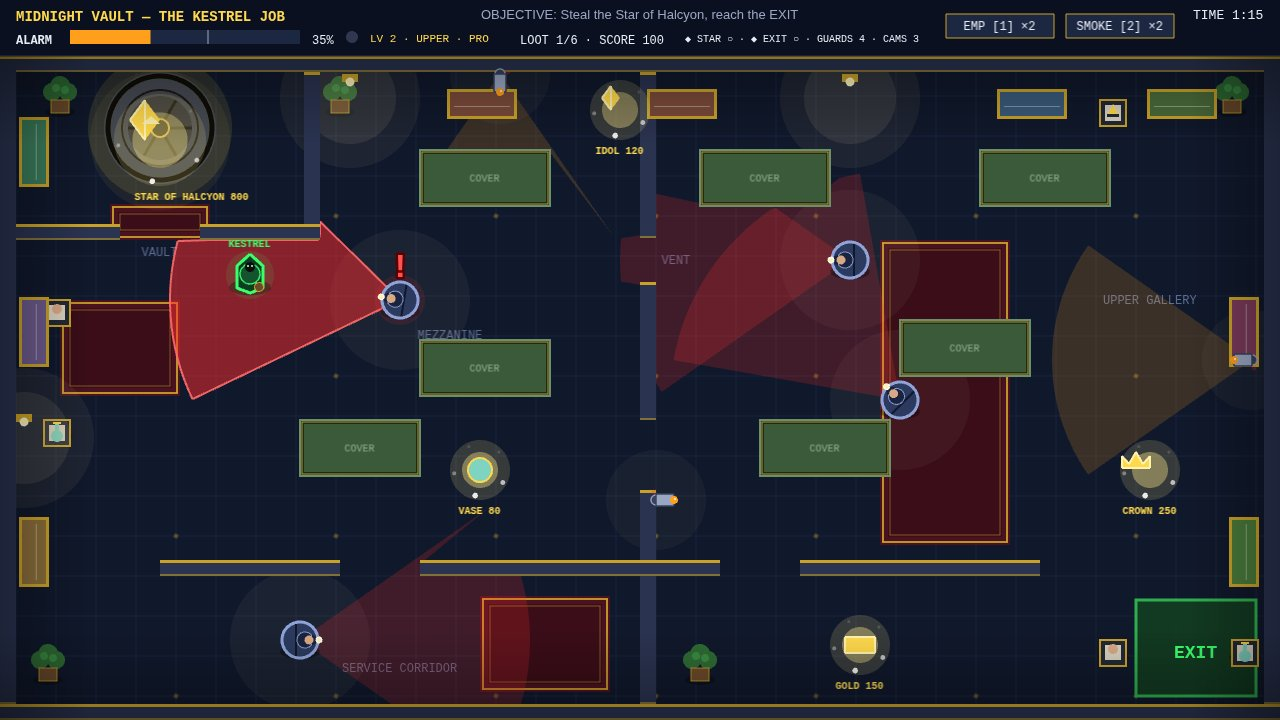
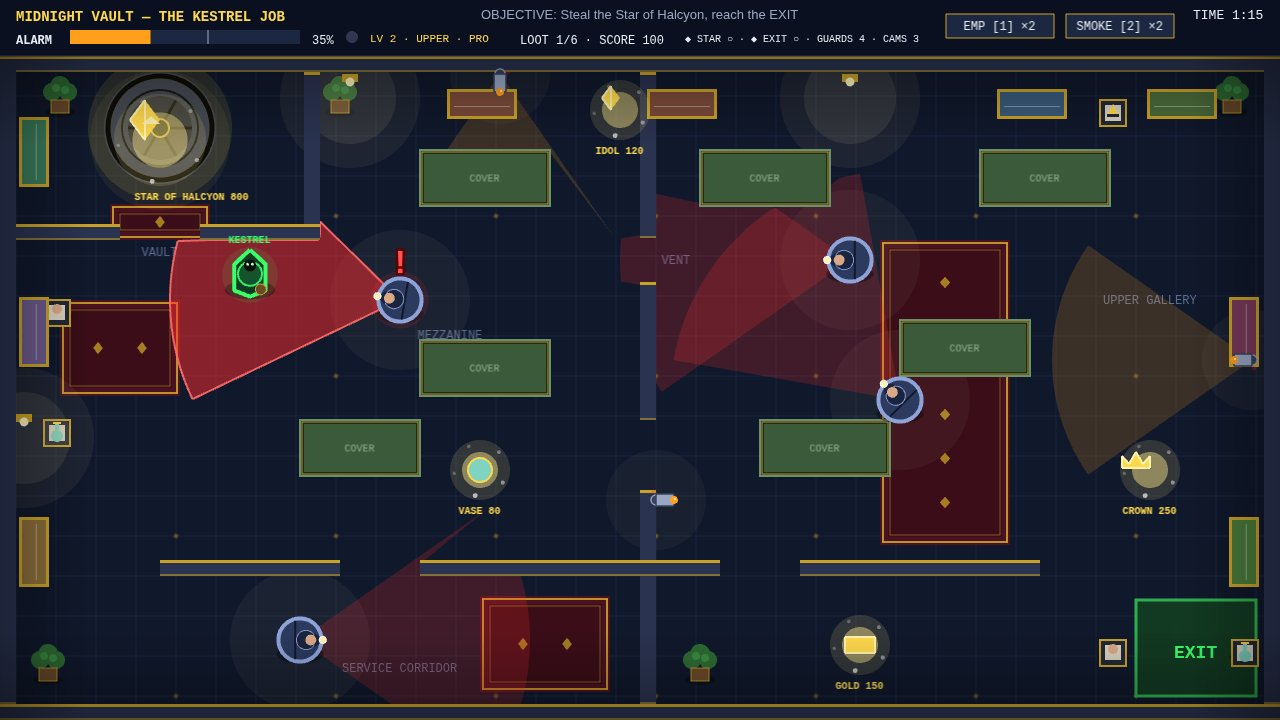
Midnight Vault: bolder figures, woven carpet motif, clearer smoke, SPOTTED! fix
- Figures drawn 1.2x larger with thicker outlines (collision radii
  unchanged: vent, patrol and vision untouched); KESTREL tag and guard
  '!' raised to clear the bigger figures
- Carpet runners get a woven centre motif of small gold diamonds
- Cover pose smoke moved 25 px down-left so its top edge clears the
  vault's south wall; guard 1 still has eyes on Kestrel
- SPOTTED! banner no longer touches the plant (plant moved 80 px left)
- Screenshots re-shot (1280x720, <=256 KiB) and visually compared with v7

Tests: test-play 20/20, test-level2 9/9, playthrough CAMPAIGN COMPLETED
(L1 peak 66, L2 peak 27, final 1966 incl. L2 crown), main.ts
deterministic 2x, kit check 4 passed, serve.ts 200.

diff --git a/game/src/scene.js b/game/src/scene.js
@@ -172,6 +172,21 @@ export class HeistScene extends Phaser.Scene {
       carpetG.strokeRect(c.x + 3, c.y + 3, c.w - 6, c.h - 6);
       carpetG.lineStyle(1, COLORS.wallTrim, 0.5);
       carpetG.strokeRect(c.x + 10, c.y + 10, c.w - 20, c.h - 20);
+      // v8: woven centre motif — small gold diamonds down the runner's
+      // spine, so the carpet reads as textile instead of a solid block.
+      const horiz = c.w >= c.h;
+      const axisLen = horiz ? c.w : c.h;
+      const count = Math.floor((axisLen - 24) / 44);
+      for (let i = 0; i < count; i += 1) {
+        const t = (axisLen - (count - 1) * 44) / 2 + i * 44;
+        const cx = horiz ? c.x + t : c.x + c.w / 2;
+        const cy = horiz ? c.y + c.h / 2 : c.y + t;
+        carpetG.fillStyle(COLORS.wallTrim, 0.75);
+        carpetG.fillPoints([
+          { x: cx, y: cy - 6 }, { x: cx + 5, y: cy },
+          { x: cx, y: cy + 6 }, { x: cx - 5, y: cy },
+        ], true);
+      }
     }
     this.levelObjs.push(carpetG);
 
@@ -410,7 +425,8 @@ export class HeistScene extends Phaser.Scene {
   buildActorObjs() {
     this.guardObjs = this.guards.map((g) => {
       // v7: bigger, stroked "!" — the alert must read in the contact sheet.
-      const alert = this.add.text(g.x, g.y - 34, '!', {
+      // v8: raised 4 px — the 1.2x guard figure grew into its old spot.
+      const alert = this.add.text(g.x, g.y - 38, '!', {
         fontFamily: FONT, fontSize: '32px', color: '#ff5252', fontStyle: 'bold',
         stroke: '#5a0000', strokeThickness: 5,
       }).setOrigin(0.5).setDepth(5).setVisible(false);
@@ -483,56 +499,64 @@ export class HeistScene extends Phaser.Scene {
   drawThief(x, y, facing) {
     const g = this.thiefG;
     g.clear();
+    // v8: the figure is drawn 1.2x larger than its collision circle so
+    // Kestrel reads in the 768 px contact sheet; THIEF_RADIUS (19) still
+    // rules movement, the vent slit and loot pickup — only pixels change.
     const r = THIEF_RADIUS;
+    const S = 1.2;
     g.fillStyle(0x000000, 0.35);
-    g.fillEllipse(x, y + r * 0.65, r * 2.2, r * 0.85);
+    g.fillEllipse(x, y + r * 0.65 * S, r * 2.2 * S, r * 0.85 * S);
     g.fillStyle(COLORS.thief, 0.1);
-    g.fillCircle(x, y, r + 5);
-    const p = (lx, ly) => HeistScene.rotPoint(x, y, lx, ly, facing);
+    g.fillCircle(x, y, r * S + 5);
+    const p = (lx, ly) => HeistScene.rotPoint(x, y, lx * S, ly * S, facing);
     // Cloak: a hooded teardrop pointing where Kestrel faces.
     const cloak = [[21, 0], [9, -13], [-13, -13], [-18, 0], [-13, 13], [9, 13]]
       .map(([lx, ly]) => p(lx, ly));
     g.fillStyle(COLORS.thiefCloak, 1);
     g.fillPoints(cloak, true);
-    g.lineStyle(3, COLORS.thief, 1);
+    g.lineStyle(4, COLORS.thief, 1);
     g.strokePoints(cloak, true);
     // Hood + shadowed face + eyes.
     const hood = p(1, 0);
     g.fillStyle(COLORS.thiefHood, 1);
-    g.fillCircle(hood.x, hood.y, 10);
-    g.lineStyle(1.5, COLORS.thief, 0.9);
-    g.strokeCircle(hood.x, hood.y, 10);
+    g.fillCircle(hood.x, hood.y, 10 * S);
+    g.lineStyle(2, COLORS.thief, 0.9);
+    g.strokeCircle(hood.x, hood.y, 10 * S);
     const face = p(8, 0);
     g.fillStyle(0x0a0f0a, 1);
-    g.fillCircle(face.x, face.y, 5);
+    g.fillCircle(face.x, face.y, 5 * S);
     for (const ey of [-2, 2]) {
       const e = p(9, ey);
       g.fillStyle(0xbfffd0, 1);
-      g.fillCircle(e.x, e.y, 1.2);
+      g.fillCircle(e.x, e.y, 1.5);
     }
     // Loot bag slung at the back.
     const bag = p(-12, 9);
     g.fillStyle(COLORS.plantPot, 1);
-    g.fillCircle(bag.x, bag.y, 4.5);
+    g.fillCircle(bag.x, bag.y, 4.5 * S);
     g.lineStyle(1, COLORS.wallTrim, 1);
-    g.strokeCircle(bag.x, bag.y, 4.5);
+    g.strokeCircle(bag.x, bag.y, 4.5 * S);
   }
 
   drawGuard(x, y, angle, seeing) {
     const g = this.guardG;
     const r = GUARD_RADIUS;
+    // v8: drawn 1.2x larger than the collision circle (same as the thief)
+    // so the guards read in the contact sheet; patrol, speed and vision
+    // are untouched.
+    const S = 1.2;
     g.fillStyle(0x000000, 0.35);
-    g.fillEllipse(x, y + r * 0.65, r * 2.2, r * 0.85);
+    g.fillEllipse(x, y + r * 0.65 * S, r * 2.2 * S, r * 0.85 * S);
     if (seeing) {
       g.fillStyle(COLORS.coneGuard, 0.12);
-      g.fillCircle(x, y, r + 7);
+      g.fillCircle(x, y, r * S + 7);
     }
-    const p = (lx, ly) => HeistScene.rotPoint(x, y, lx, ly, angle);
+    const p = (lx, ly) => HeistScene.rotPoint(x, y, lx * S, ly * S, angle);
     // Navy uniform body + belt.
     g.fillStyle(COLORS.guardBody, 1);
-    g.fillCircle(x, y, r);
-    g.lineStyle(3, COLORS.guardTrim, 1);
-    g.strokeCircle(x, y, r);
+    g.fillCircle(x, y, r * S);
+    g.lineStyle(4, COLORS.guardTrim, 1);
+    g.strokeCircle(x, y, r * S);
     const b1 = p(-4, -r + 2);
     const b2 = p(-4, r - 2);
     g.lineStyle(2, 0x11182b, 1);
@@ -540,20 +564,20 @@ export class HeistScene extends Phaser.Scene {
     // Cap with brim, face, flashlight.
     const cap = p(5, 0);
     g.fillStyle(COLORS.guardCap, 1);
-    g.fillCircle(cap.x, cap.y, 8);
+    g.fillCircle(cap.x, cap.y, 8 * S);
     g.lineStyle(1, COLORS.guardTrim, 0.9);
-    g.strokeCircle(cap.x, cap.y, 8);
+    g.strokeCircle(cap.x, cap.y, 8 * S);
     const brim = [p(12, -6), p(20, 0), p(12, 6)].map((q) => ({ x: q.x, y: q.y }));
     g.fillStyle(COLORS.guardCap, 1);
     g.fillPoints(brim, true);
     const face = p(9, 0);
     g.fillStyle(COLORS.guardSkin, 1);
-    g.fillCircle(face.x, face.y, 4.5);
+    g.fillCircle(face.x, face.y, 4.5 * S);
     const lamp = p(19, 0);
     g.fillStyle(0xfff2b0, 1);
-    g.fillCircle(lamp.x, lamp.y, 3);
+    g.fillCircle(lamp.x, lamp.y, 3 * S);
     g.lineStyle(1, 0xffffff, 1);
-    g.strokeCircle(lamp.x, lamp.y, 3);
+    g.strokeCircle(lamp.x, lamp.y, 3 * S);
   }
 
   drawCamera(c) {
@@ -1226,7 +1250,7 @@ export class HeistScene extends Phaser.Scene {
         continue;
       }
       this.drawGuard(o.logic.x, o.logic.y, o.logic.angle, o.logic.seeing);
-      o.alert.setPosition(o.logic.x, o.logic.y - 34).setVisible(o.logic.seeing);
+      o.alert.setPosition(o.logic.x, o.logic.y - 38).setVisible(o.logic.seeing);
     }
     this.camG.clear();
     for (const o of this.camObjs) {
@@ -1234,8 +1258,8 @@ export class HeistScene extends Phaser.Scene {
       o.off.setVisible(o.logic.isDisabled(this.clock));
     }
     this.drawThief(this.thief.x, this.thief.y, this.thief.facing);
-    this.thiefTag.setPosition(this.thief.x, this.thief.y - 32);
-    this.ventText.setPosition(this.thief.x, this.thief.y + 28).setVisible(this.thief.inVent);
+    this.thiefTag.setPosition(this.thief.x, this.thief.y - 36);
+    this.ventText.setPosition(this.thief.x, this.thief.y + 32).setVisible(this.thief.inVent);
 
     // HUD.
     const hg = this.hudG;

diff --git a/game/src/shots.js b/game/src/shots.js
@@ -38,10 +38,12 @@ export function applyShot(name, scene) {
     // straight THROUGH the door gap (x 1080..1160) onto him — the cone is
     // not clipped by the vault wall. Guard 0 sweeps the hall toward the
     // vault; alarm sits at 45% — tense, not yet caught. NEW in v7: a smoke
-    // pellet cloud hangs just below-left of Kestrel (staged at (1020,295)
-    // — off every watcher's sight line, so guard 1 still has eyes on him)
-    // and the top camera is EMP'd (grey dead cone + "EMP'D" label, HUD
-    // reads CAMS 1). Smoke + EMP + locked cone + alarm in ONE frame.
+    // pellet cloud hangs just below-left of Kestrel (staged at (995,320)
+    // — v8 moved it 25 px down-left from (1020,295) so its top edge clears
+    // the vault's south wall; still off every watcher's sight line, so
+    // guard 1 still has eyes on him) and the top camera is EMP'd (grey
+    // dead cone + "EMP'D" label, HUD reads CAMS 1). Smoke + EMP + locked
+    // cone + alarm in ONE frame.
     scene.setThief(1085, 195);
     scene.setGuard(0, 700, 300);
     scene.setGuard(1, 1120, 420);
@@ -53,7 +55,7 @@ export function applyShot(name, scene) {
     scene.collectLootKind('painting', true);
     scene.setScore(100);
     scene.clock = 47; // 0:47 on the timer, mid-job
-    scene.stageSmoke(1020, 295); // smoke staged AFTER the clock is set
+    scene.stageSmoke(995, 320); // smoke staged AFTER the clock is set
     scene.stageEmp(0); // top camera EMP'd — grey cone + EMP'D label
   } else if (name === 'approach') {
     // Reading the patrol: Kestrel waits just above a COVER case while

diff --git a/game/src/levels.js b/game/src/levels.js
@@ -73,7 +73,8 @@ export const LEVEL = {
   ],
   plants: [
     { x: 48, y: 100 },
-    { x: 620, y: 100 },
+    { x: 540, y: 100 }, // v8: moved 80 px left from (620,100) — the plant
+    // sat inside the SPOTTED! banner (x 582..698, y 92..120) in shot 3
     { x: 1232, y: 668 },
     // v7 density: two more plants in the bare top and bottom-right corners.
     { x: 980, y: 100 },
